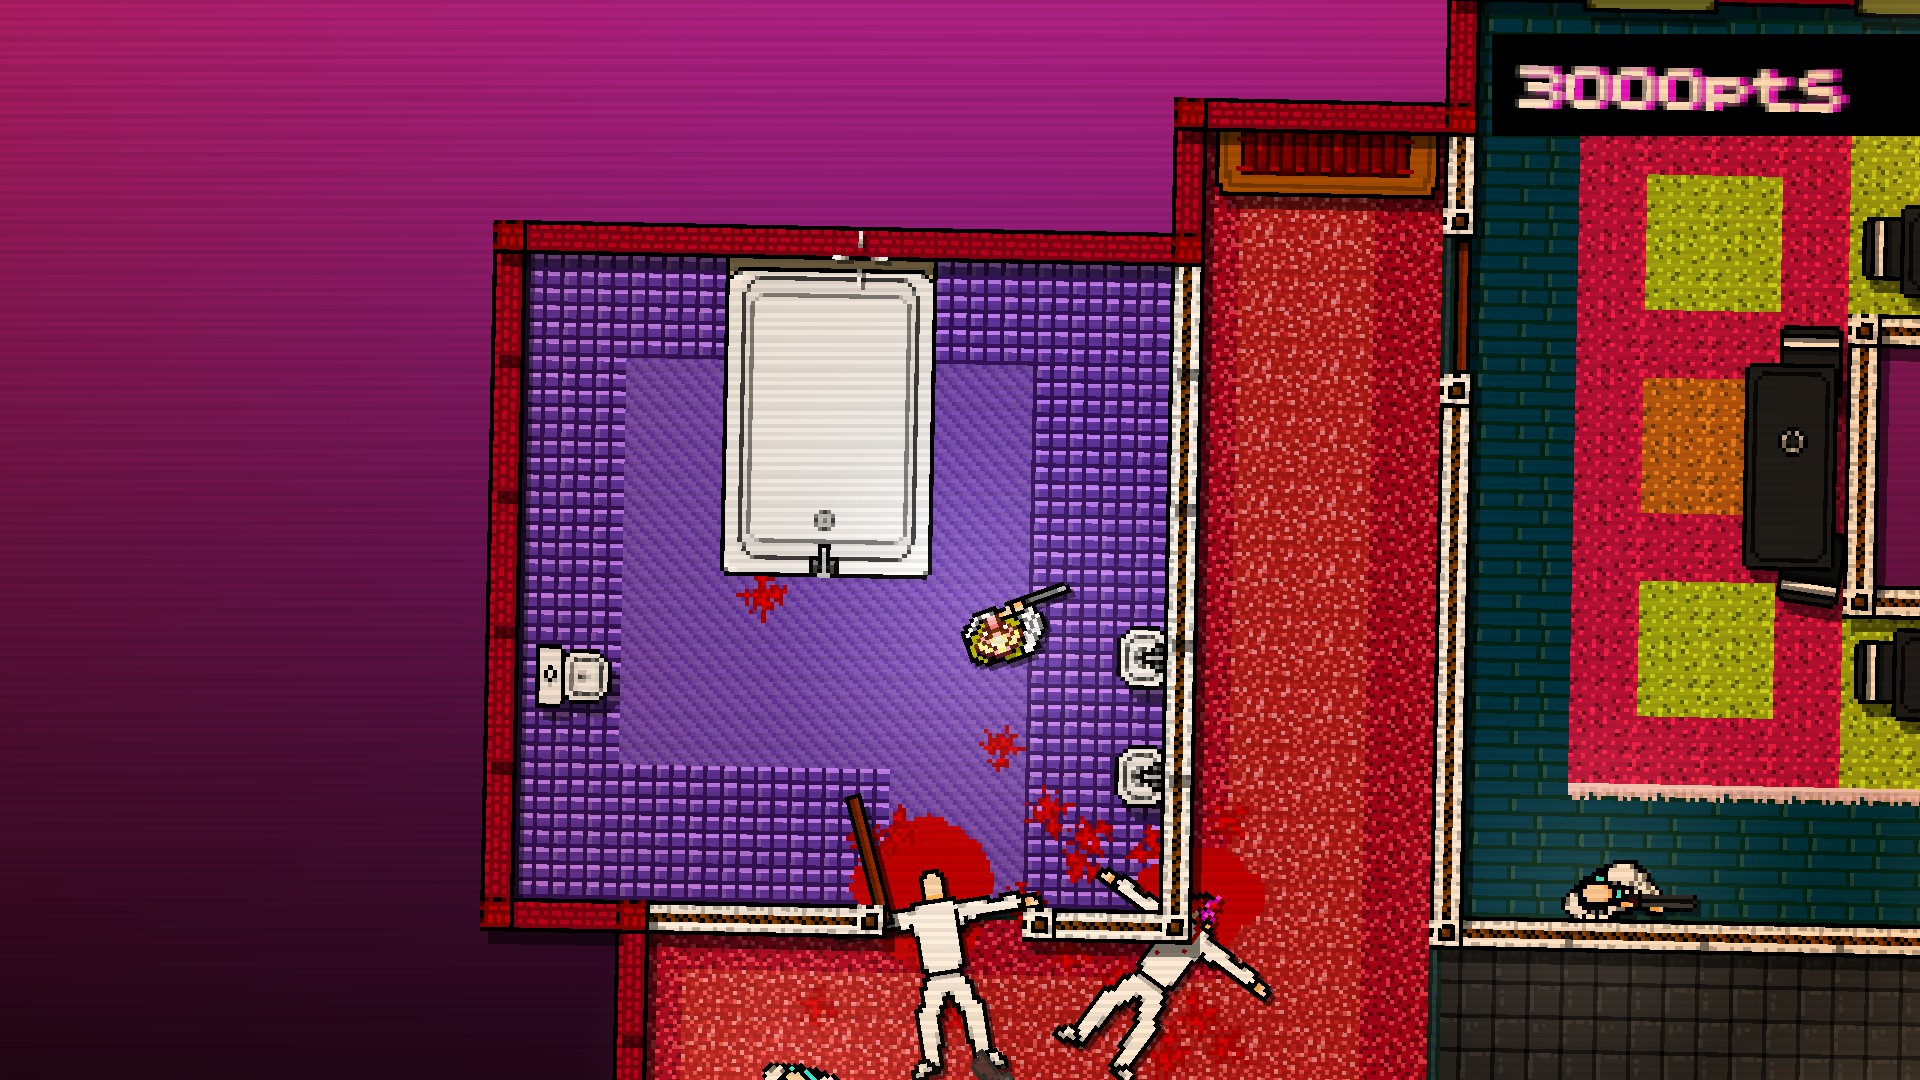
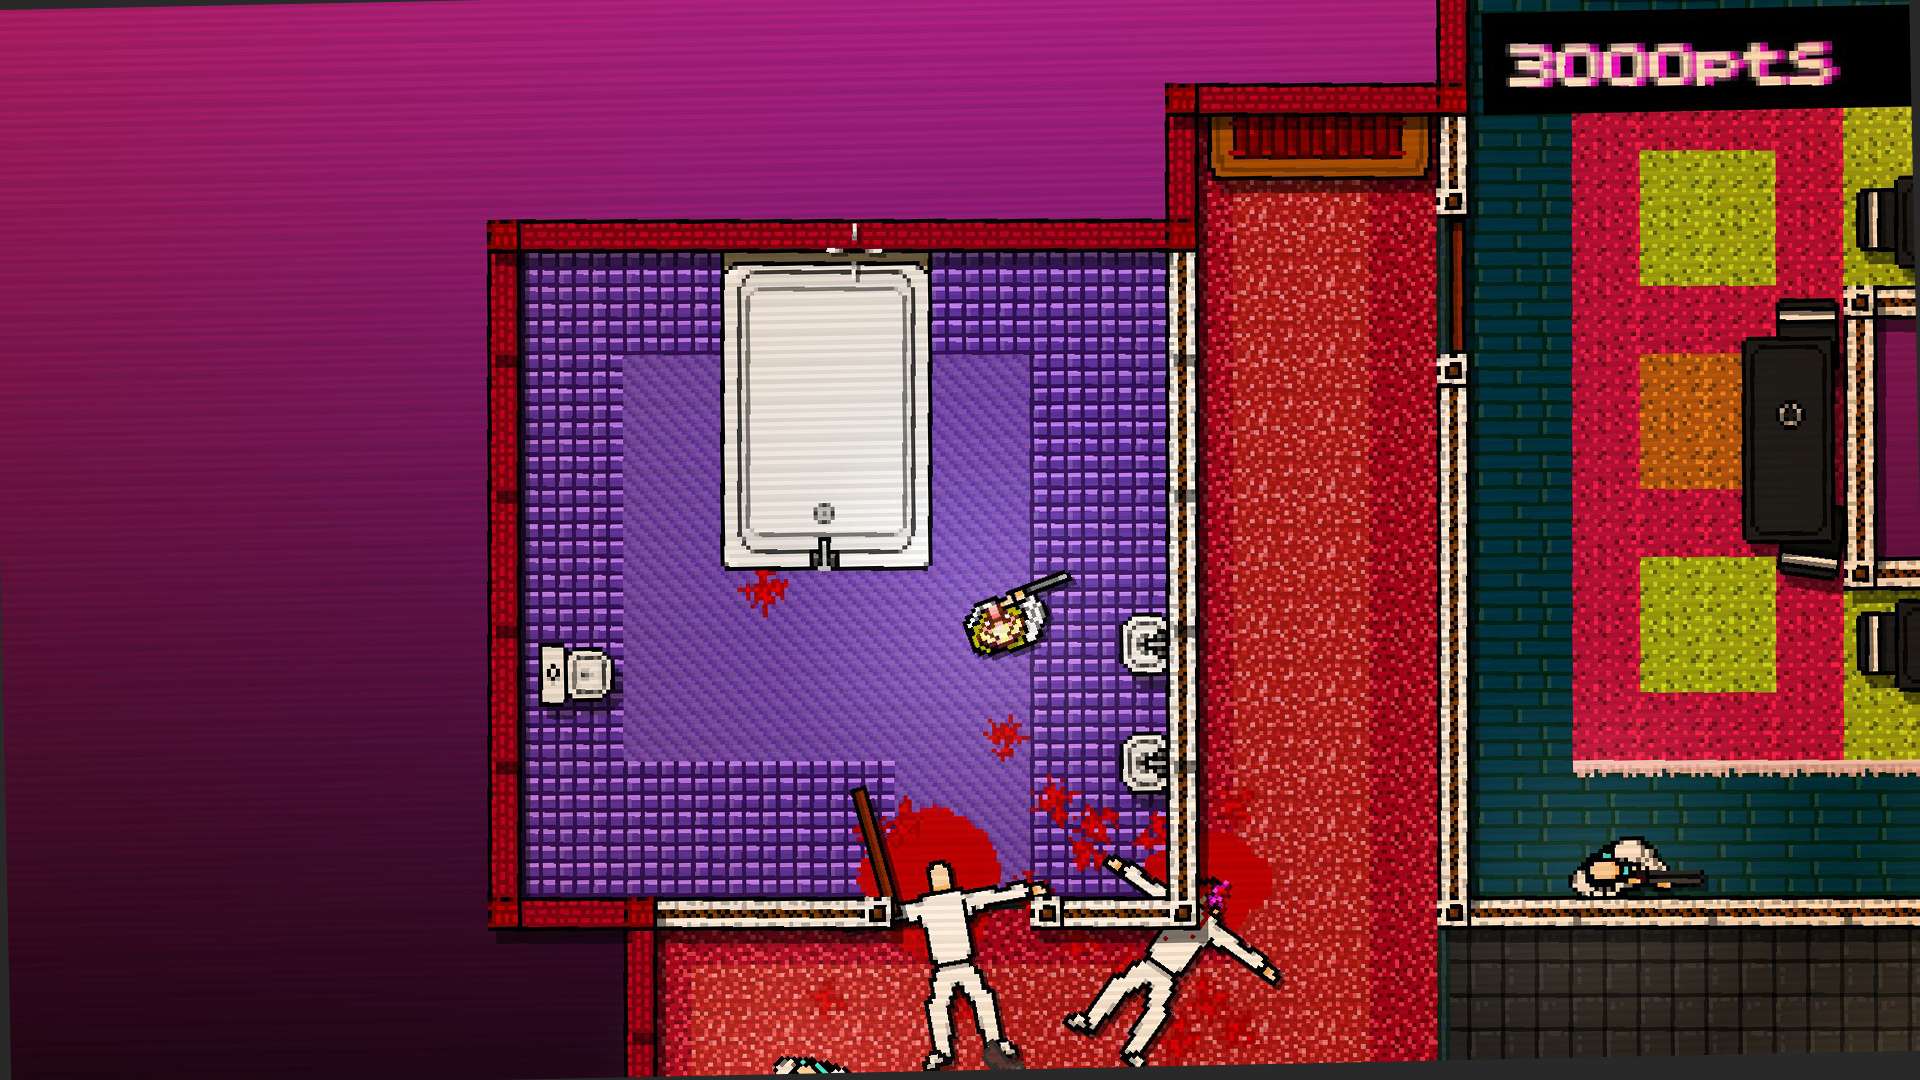
level debug renderer #4

diff --git a/dev/src/com/borschtlabs/gytm/dev/Level.kt b/dev/src/com/borschtlabs/gytm/dev/Level.kt
@@ -4,32 +4,18 @@ import com.badlogic.gdx.Gdx
 import com.badlogic.gdx.maps.tiled.TiledMap
 import com.badlogic.gdx.maps.tiled.TiledMapTileLayer
 import com.badlogic.gdx.utils.Disposable
-import com.badlogic.gdx.utils.IntMap
 
 /**
  * @author octopussy
  */
 
-interface Cell {
-    val isWall: Boolean
-}
-
-data class Waypoint(val x: Float, val y: Float)
-
-class NavGrid(val size: Int) {
-    val waypoints: MutableList<Waypoint> = mutableListOf()
+data class Cell(val x: Int, val y: Int) {
+    var isWall: Boolean = false
 }
 
 class Level private constructor(val width: Int, val height: Int, val cellSize: Int, val tiledMap: TiledMap) : Disposable {
 
-    private class CellImpl : Cell {
-        var _isWall = false
-        override val isWall: Boolean get() = _isWall
-    }
-
-    private val cells: Array2D<Cell> = Array2D(width, height) { x, y -> CellImpl() }
-
-    val navGrids: IntMap<NavGrid> = IntMap()
+    private val cells: Array2D<Cell> = Array2D(width, height) { x, y -> Cell(x, y) }
 
     init {
         val walls = tiledMap.layers.get("walls") as TiledMapTileLayer?
@@ -38,14 +24,10 @@ class Level private constructor(val width: Int, val height: Int, val cellSize: I
                 for (x in 0..width - 1) {
                     val c = getCell(x, y)
 
-                    (cells[x, y] as CellImpl)._isWall = c != null
+                    cells[x, y].isWall = c != null
                 }
             }
         }
-
-        initNavGrid(1)
-        initNavGrid(2)
-        initNavGrid(3)
     }
 
     override fun dispose() {
@@ -56,26 +38,6 @@ class Level private constructor(val width: Int, val height: Int, val cellSize: I
         if (x < 0 || x >= width) return null
         if (y < 0 || y >= height) return null
         return cells[x, y]
-    }
-
-    private fun initNavGrid(size: Int) {
-        if (size <= 0) return
-
-        val grid: NavGrid = NavGrid(size)
-        navGrids.put(size, grid)
-
-        val hs = size.toFloat() / 2f
-
-        for (y in 0..height - 1) {
-            for (x in 0..width - 1) {
-                val passable = checkCellsUnderWaypoint(size, x, y)
-
-                if (!passable) {
-                    val wp = Waypoint(x + hs, y + hs)
-                    grid.waypoints.add(wp)
-                }
-            }
-        }
     }
 
     private fun checkCellsUnderWaypoint(size: Int, x: Int, y: Int): Boolean {
@@ -118,5 +80,44 @@ class Level private constructor(val width: Int, val height: Int, val cellSize: I
 
             return Level(width, height, tileWidth, tiledMap)
         }
+    }
+
+    fun getTurnArea(startX: Int, startY: Int, unitSize: Int, maxDistance: Int): List<Cell> {
+        if (maxDistance <= 0) {
+            return listOf(getCell(startX, startY)!!)
+        }
+
+        val visited = mutableSetOf<Cell>()
+        val frontier = mutableListOf<Cell?>()
+
+        frontier.add(getCell(startX, startY))
+
+        fun extendFrontier(x: Int, y: Int) {
+            val n = getCell(x, y)
+            if (n != null && !visited.contains(n) && !checkCellsUnderWaypoint(unitSize, n.x, n.y)){
+                frontier.add(n)
+                visited.add(n)
+            }
+        }
+
+        while (frontier.isNotEmpty()) {
+            val current = frontier.removeAt(0)
+
+            if (current != null) {
+                // west
+                extendFrontier(current.x - 1, current.y)
+
+                // north
+                extendFrontier(current.x, current.y + 1)
+
+                // east
+                extendFrontier(current.x + 1, current.y)
+
+                // south
+                extendFrontier(current.x, current.y - 1)
+            }
+        }
+
+        return visited.toList()
     }
 }

diff --git a/dev/src/com/borschtlabs/gytm/dev/DevScreen.kt b/dev/src/com/borschtlabs/gytm/dev/DevScreen.kt
@@ -114,7 +114,7 @@ class DevScreen : ScreenAdapter() {
                 val cell = level.getCell(x, y)
                 cell?.apply {
                     if (isWall) {
-                        drawDebugRect(x, y)
+                       // drawDebugRect(x, y)
                     }
                 }
             }
@@ -125,21 +125,28 @@ class DevScreen : ScreenAdapter() {
         debugSR.begin(ShapeRenderer.ShapeType.Filled)
         debugSR.projectionMatrix = cam.combined
 
-        drawNavGrid(2, Color(0f, 1f, 0f, 0.5f))
+        debugSR.color = Color(1f, 0f, 0f, 0.5f)
+        drawDebugTurnArea(13, 13, 1, 10)
+
+        debugSR.color = Color(1f, 1f, 0f, 0.5f)
+        drawDebugTurnArea(13, 13, 2, 10)
+
+        debugSR.color = Color(1f, 0f, 1f, 0.5f)
+        drawDebugTurnArea(13, 13, 3, 10)
+
+        debugSR.color = Color(0f, 0f, 1f, 0.5f)
+        drawDebugTurnArea(13, 13, 4, 10)
 
         debugSR.end()
     }
 
-    private fun drawNavGrid(size:Int, color: Color) {
-        debugSR.color = color
-
-        val grid: NavGrid = level.navGrids.get(size)
-        for ((x, y) in grid.waypoints) {
-            debugSR.circle(x, y, 0.1f, 8)
-        }
+    private fun drawDebugTurnArea(x: Int, y: Int, unitSize:Int, maxDistance: Int) {
+        val area = level.getTurnArea(x, y, unitSize, maxDistance)
+        val shift = (unitSize - 1) * 0.5f
+        area.forEach { drawDebugRect(it.x + shift, it.y + shift) }
     }
 
-    private fun drawDebugRect(x: Int, y: Int) {
+    private fun drawDebugRect(x: Float, y: Float) {
         debugSR.rect(x.toFloat(), y.toFloat(), 1f, 1f)
     }
 

diff --git a/dev/src/com/borschtlabs/gytm/dev/DevInputController.kt b/dev/src/com/borschtlabs/gytm/dev/DevInputController.kt
@@ -13,7 +13,7 @@ class DevInputController(val camera: OrthographicCamera) : GestureDetector(Gestu
 
     override fun scrolled(amount: Int): Boolean {
         camera.zoom += amount * 0.2f
-        camera.zoom = Math.max(1f, Math.min(2.0f, camera.zoom))
+        camera.zoom = Math.max(0.6f, Math.min(2.0f, camera.zoom))
 
         return true
     }
